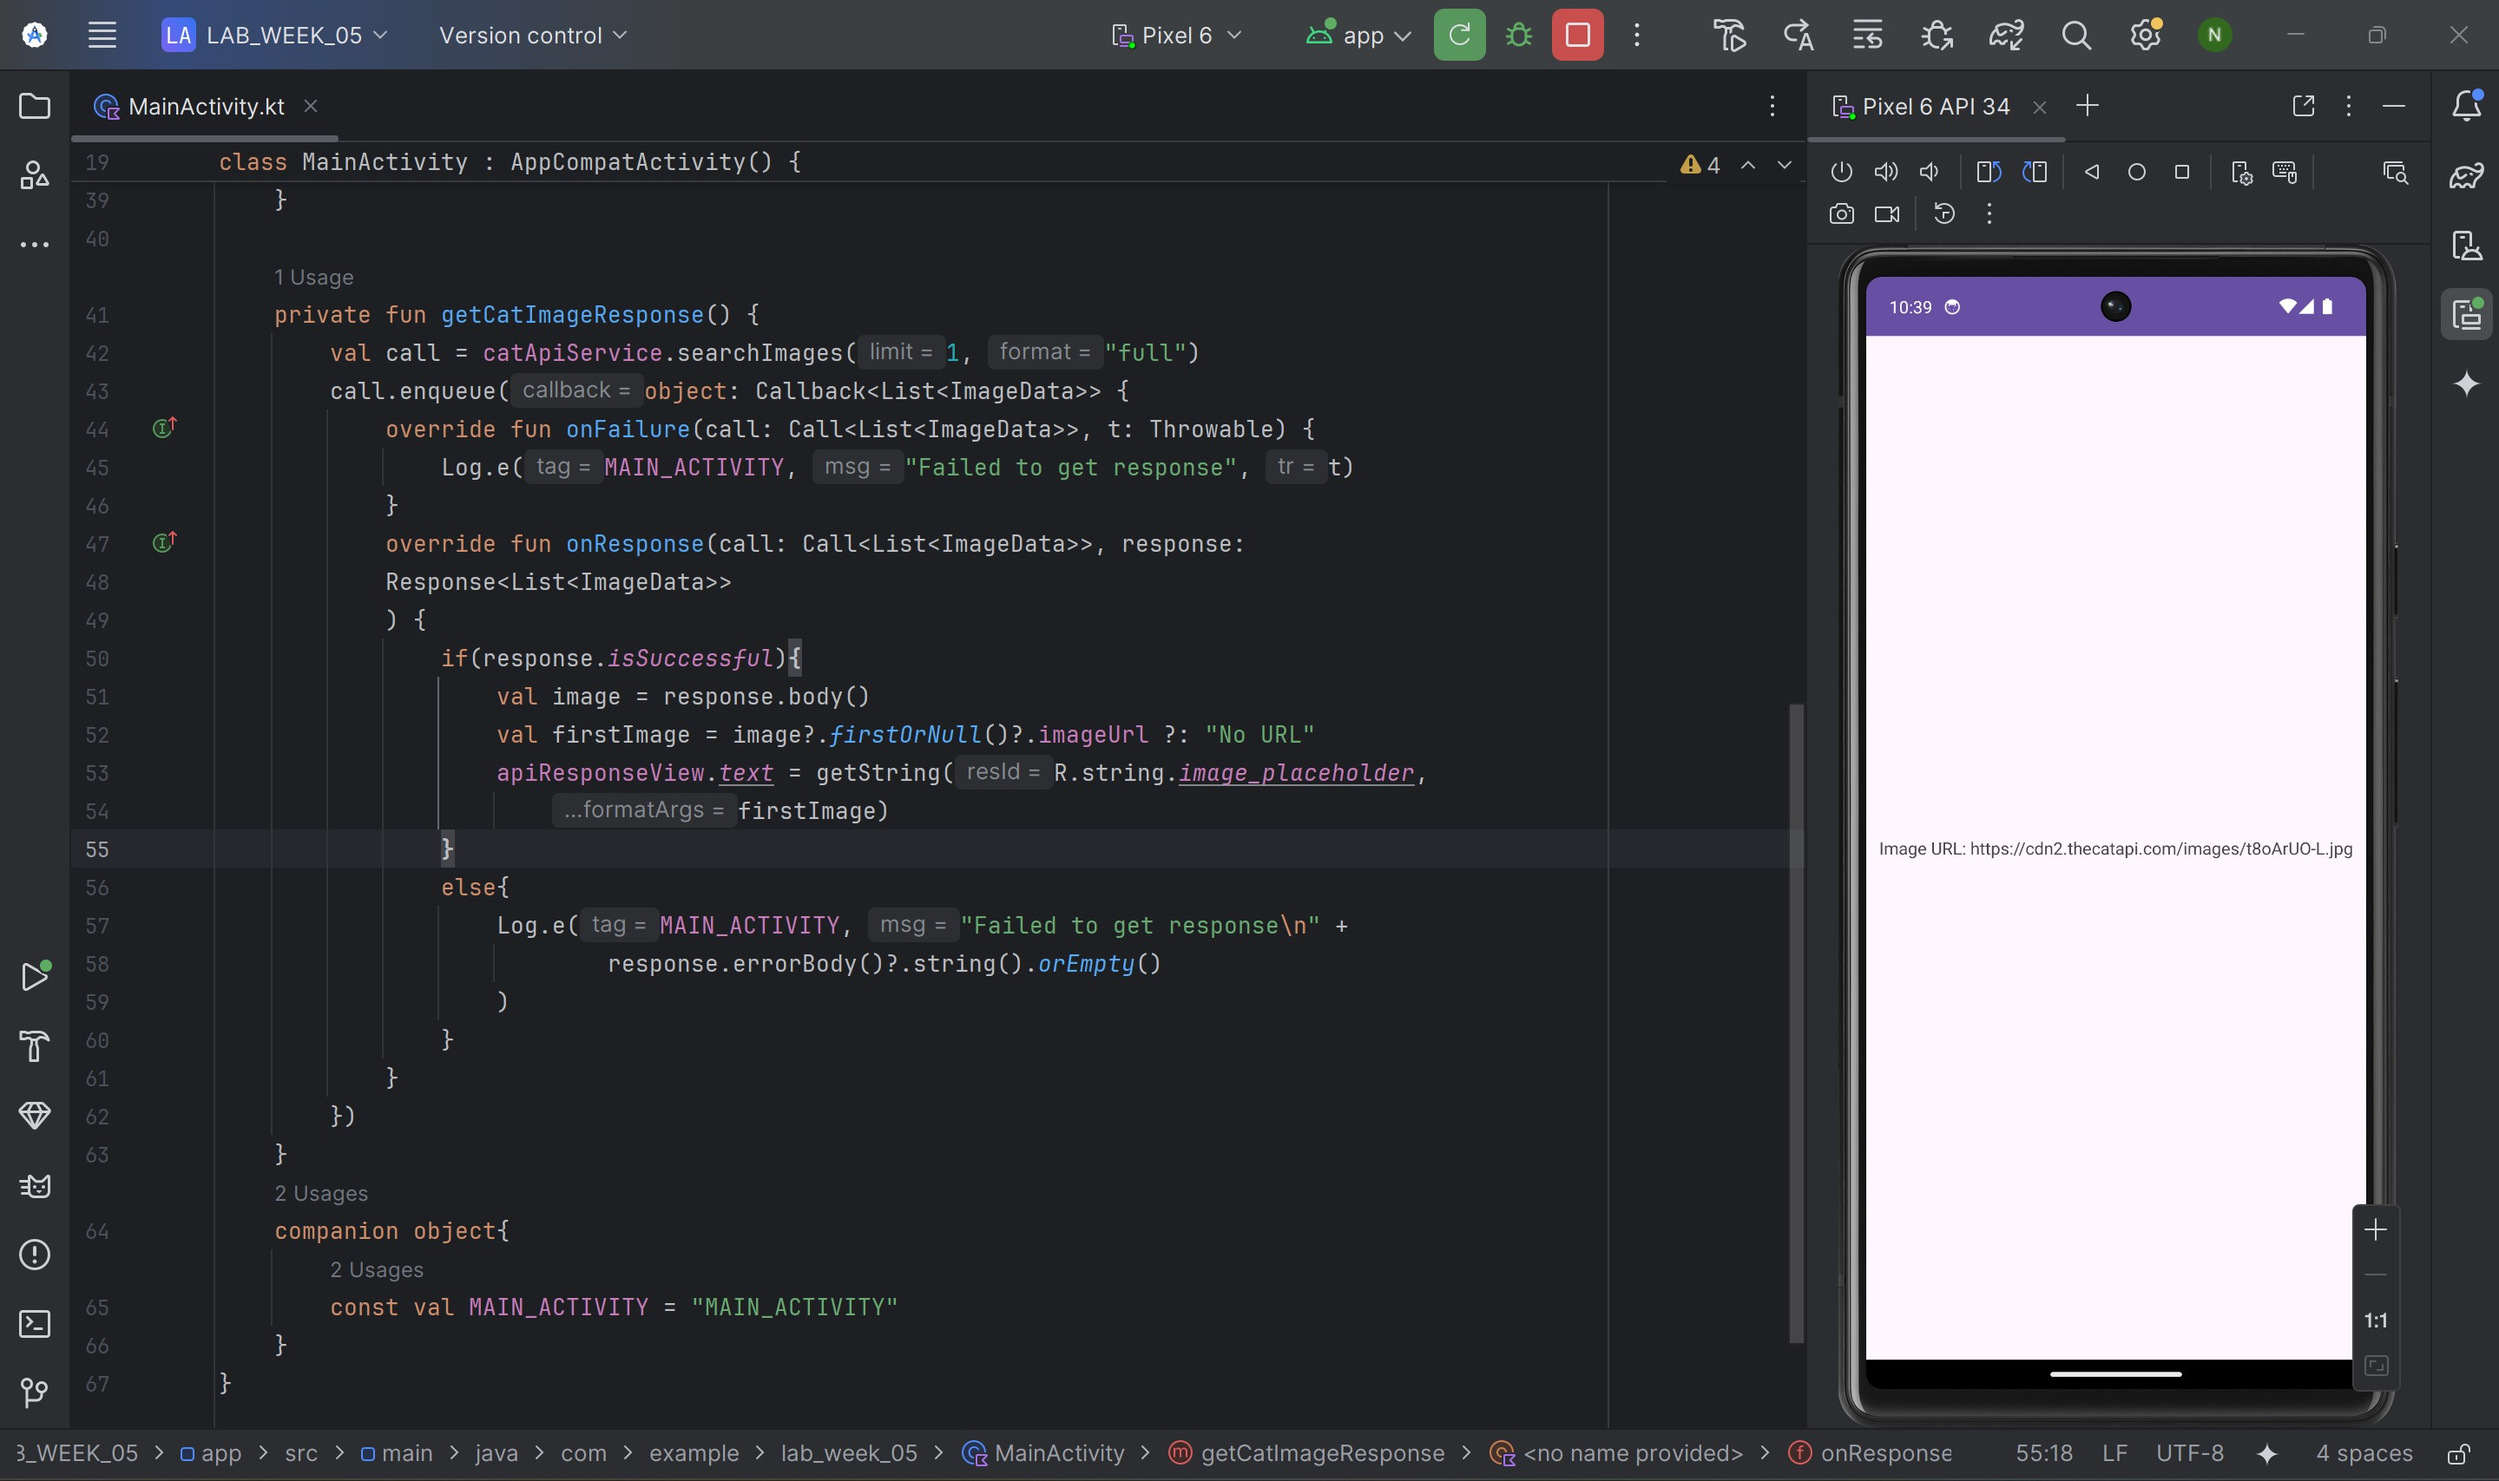
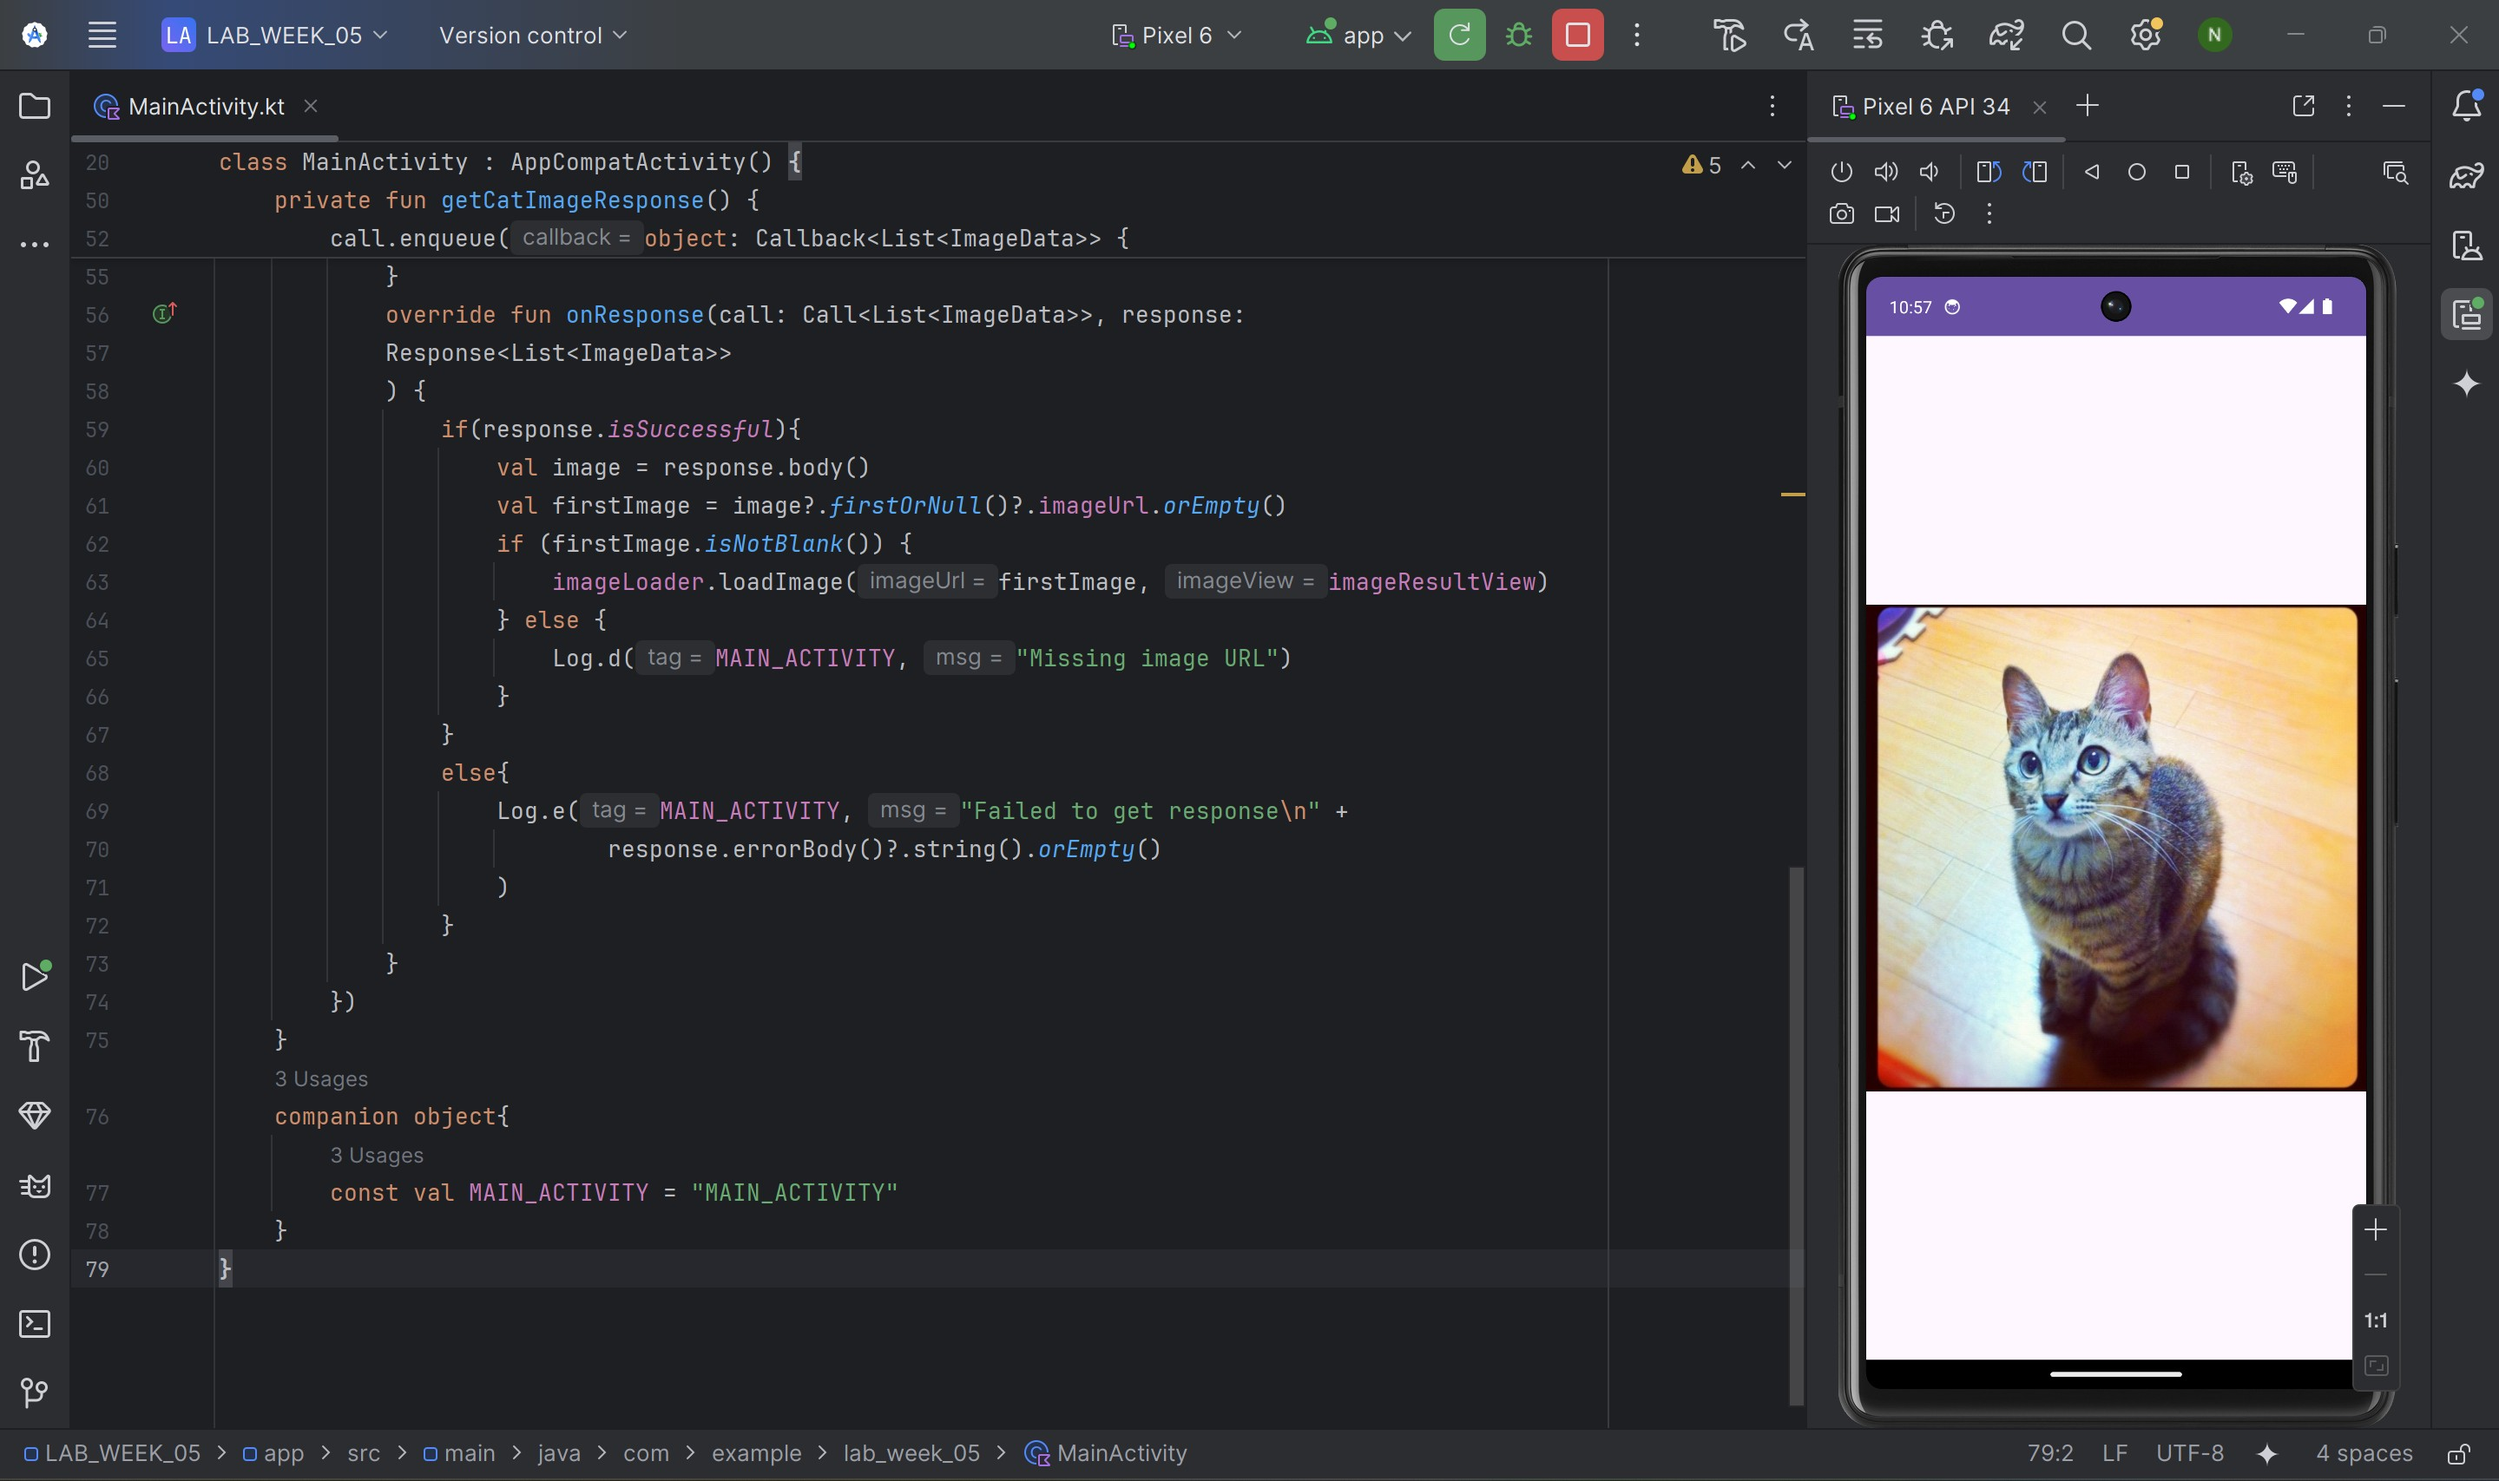
Commit No. 3 - Load and Display Cat Image using Glide

diff --git a/app/src/main/java/com/example/lab_week_05/MainActivity.kt b/app/src/main/java/com/example/lab_week_05/MainActivity.kt
@@ -2,6 +2,7 @@ package com.example.lab_week_05
 
 import android.os.Bundle
 import android.util.Log
+import android.widget.ImageView
 import android.widget.TextView
 import androidx.activity.enableEdgeToEdge
 import androidx.appcompat.app.AppCompatActivity
@@ -32,6 +33,14 @@ class MainActivity : AppCompatActivity() {
         findViewById(R.id.api_response)
     }
 
+    private val imageResultView: ImageView by lazy {
+        findViewById(R.id.image_result)
+    }
+
+    private val imageLoader: ImageLoader by lazy {
+        GlideLoader(this)
+    }
+
     override fun onCreate(savedInstanceState: Bundle?) {
         super.onCreate(savedInstanceState)
         setContentView(R.layout.activity_main)
@@ -49,9 +58,12 @@ class MainActivity : AppCompatActivity() {
             ) {
                 if(response.isSuccessful){
                     val image = response.body()
-                    val firstImage = image?.firstOrNull()?.imageUrl ?: "No URL"
-                    apiResponseView.text = getString(R.string.image_placeholder,
-                        firstImage)
+                    val firstImage = image?.firstOrNull()?.imageUrl.orEmpty()
+                    if (firstImage.isNotBlank()) {
+                        imageLoader.loadImage(firstImage, imageResultView)
+                    } else {
+                        Log.d(MAIN_ACTIVITY, "Missing image URL")
+                    }
                 }
                 else{
                     Log.e(MAIN_ACTIVITY, "Failed to get response\n" +

diff --git a/app/src/main/java/com/example/lab_week_05/GlideLoader.kt b/app/src/main/java/com/example/lab_week_05/GlideLoader.kt
@@ -1,0 +1,14 @@
+package com.example.lab_week_05
+
+import android.content.Context
+import android.widget.ImageView
+import com.bumptech.glide.Glide
+
+class GlideLoader(private val context: Context) : ImageLoader {
+    override fun loadImage(imageUrl: String, imageView: ImageView) {
+        Glide.with(context)
+            .load(imageUrl)
+            .centerCrop()
+            .into(imageView)
+    }
+}

diff --git a/app/src/main/java/com/example/lab_week_05/ImageLoader.kt b/app/src/main/java/com/example/lab_week_05/ImageLoader.kt
@@ -1,0 +1,7 @@
+package com.example.lab_week_05
+
+import android.widget.ImageView
+
+interface ImageLoader {
+    fun loadImage(imageUrl: String, imageView: ImageView)
+}
